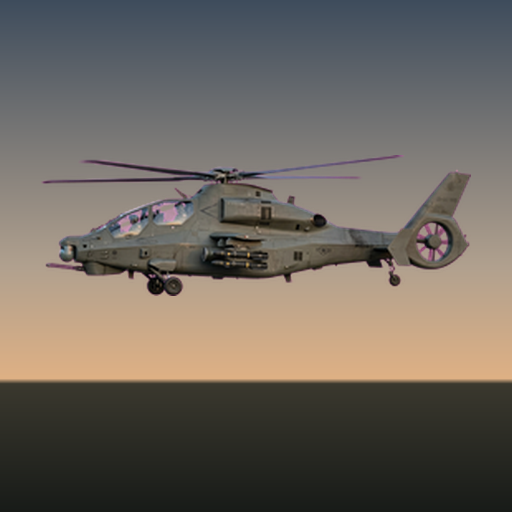
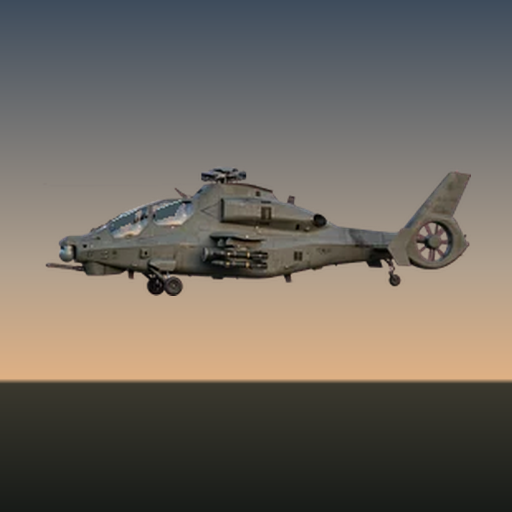
Clean battlefield sprites and give each faction distinct paint

diff --git a/index.html b/index.html
@@ -73,7 +73,7 @@ const SPR={},UNIT_SPR={ENG:'soldier',INF:'soldier',TANK:'tank',AA:'aa',VAN:'van'
 const UNIT_SCALE={ENG:1.4,INF:1.4,TANK:1.15,AA:1.15,VAN:1.15},TEAM_RIM={1:'#8fe8d2','-1':'#ff7a66'};
 const SPR_CFG={
   heli:{w:130,face:-1},tank:{w:95,face:1},aa:{w:110,face:-1},van:{w:100,face:1},
-  soldier:{w:30,face:1},balloon:{w:120,face:1},bunker:{w:110,face:1},hq:{w:300,face:1,file:'hq.webp'}
+  soldier:{w:30,face:1},balloon:{w:120,face:1},bunker:{w:110,face:1},hq:{w:300,face:1}
 };
 let ASSETS_OK=false,ASSET_FAIL=[],ASSET_GOT=0,ASSET_NEED=0;
 (function loadAssets(){
@@ -83,21 +83,29 @@ let ASSETS_OK=false,ASSET_FAIL=[],ASSET_GOT=0,ASSET_NEED=0;
     img.onload=done;img.onerror=()=>{ASSET_FAIL.push(name);done();};
     img.src='assets/'+file;return img;
   };
-  for(const n in SPR_CFG)SPR[n]={img:load(n,SPR_CFG[n].file||n+'.png')};
+  for(const n in SPR_CFG)SPR[n]={img:load(n,n+'.webp')};
   SPR.backdrop=load('backdrop','backdrop.jpg');
 })();
 function sprImg(name){
   const s=SPR[name];
   return s&&s.img&&s.img.complete&&s.img.naturalWidth>0?s.img:null;
 }
-// Enemy red wash, team desaturation, hit flash and wreck char are computed per pixel from the one base
+// Faction paint, team desaturation, hit flash and wreck char are computed per pixel from the one base
 // image and cached, so sprites need no pre-tinted copies and nothing depends on canvas filter support.
-function shadePixels(d,side,effect){
-  const sat=side<0?.62:.78,gain=(side<0?.92:.98)*(effect==='hit'?2.4:1);
+function shadePixels(d,side,effect,width=1){
+  const sat=.83,gain=effect==='hit'?2.4:1;
   for(let i=0;i<d.length;i+=4){
     if(!d[i+3])continue;
     let r=d[i],g=d[i+1],b=d[i+2];
-    if(side<0){r=Math.min(255,r*1.3+15);g*=.55;b*=.55;}
+    const y=Math.floor(i/4/width),x=i/4%width;
+    const stripe=(x+y*.48)/width;
+    const marking=(stripe>.42&&stripe<.49)||(stripe>.505&&stripe<.528);
+    if(side<0){
+      const value=.27*r+.58*g+.15*b;
+      if(marking || (b>r*1.4&&b>g*1.15)){
+        r=value*.86+92;g=value*.36;b=value*.29;
+      }else{r=value*.77;g=value*.84;b=value*.91;}
+    }else if(marking){r*=.64;g=g*.86+12;b=b*.92+32;}
     const gray=.2126*r+.7152*g+.0722*b;
     if(effect==='wreck')r=g=b=gray*.35;
     else{r=(gray+(r-gray)*sat)*gain;g=(gray+(g-gray)*sat)*gain;b=(gray+(b-gray)*sat)*gain;}
@@ -113,11 +121,11 @@ function materialSprite(img,name,side,w,effect='',rim=''){
   const sw=Math.min(img.width,Math.ceil(w*3)),sh=Math.max(1,Math.round(sw*img.height/img.width));
   const body=document.createElement('canvas');body.width=sw;body.height=sh;
   const ctx=body.getContext('2d');ctx.drawImage(img,0,0,sw,sh);
-  try{const pixels=ctx.getImageData(0,0,sw,sh);shadePixels(pixels.data,side,effect);ctx.putImageData(pixels,0,0);}
+  try{const pixels=ctx.getImageData(0,0,sw,sh);shadePixels(pixels.data,side,effect,sw);ctx.putImageData(pixels,0,0);}
   catch(e){
     // Pixel access is refused when the page is opened straight from disk; approximate with compositing.
     ctx.globalCompositeOperation='source-atop';
-    for(const [on,tint] of [[side<0,'rgba(190,40,30,.42)'],[effect==='hit','rgba(255,255,255,.6)'],[effect==='wreck','rgba(18,18,16,.72)']])
+    for(const [on,tint] of [[side<0,'rgba(66,75,85,.34)'],[effect==='hit','rgba(255,255,255,.6)'],[effect==='wreck','rgba(18,18,16,.72)']])
       if(on){ctx.fillStyle=tint;ctx.fillRect(0,0,sw,sh);}
   }
   let surface=body,pad=0;

diff --git a/assets/process.py b/assets/process.py
@@ -1,10 +1,9 @@
 #!/usr/bin/env python3
-"""Chroma-key magenta backgrounds -> clean transparent game sprites.
-
-Enemy red tint, hit flash and wreck shading are computed in the browser from these base images
-(shadePixels in index.html), so no tinted copies are written. The large HQ sprite ships as WebP.
+"""Run python3 assets/process.py with Pillow to rebuild sprites, backdrop and icons.
+src_ files are authoring masters. The runtime downloads the eight WebP sprites
+and backdrop.jpg. Team paint, hit flashes and wreck shading use these same sprites.
 """
-from PIL import Image
+from PIL import Image, ImageDraw
 import os
 
 os.chdir(os.path.dirname(os.path.abspath(__file__)))
@@ -20,49 +19,52 @@ SPRITES = {
     'bunker':  ('src_bunker.png',  220),
     'hq':      ('src_hq.png',      600),
 }
-WEBP = {'hq'}
 
 def key_and_crop(src_file):
     im = Image.open(src_file).convert('RGBA')
-    w, h = im.size
+    if src_file == 'src_van.png':
+        return im.crop(im.getbbox())
     px = im.load()
-
-    # Sample background magenta from image corners
-    corners = [px[0, 0], px[w - 1, 0], px[0, h - 1], px[w - 1, h - 1]]
-    bg_m = min(min(p[0], p[2]) - p[1] for p in corners)
-    cut_hi = min(80, max(50, bg_m - 15))
-    cut_lo = cut_hi - 30
-
-    for y in range(h):
-        for x in range(w):
+    for y in range(im.height):
+        for x in range(im.width):
             r, g, b, a = px[x, y]
-            m = min(r, b) - g
-            if m >= cut_hi:
+            spill = min(r, b) - g
+            if spill >= 80:
                 px[x, y] = (0, 0, 0, 0)
-            elif m > cut_lo:
-                na = int(255 * (1 - (m - cut_lo) / (cut_hi - cut_lo)))
-                ng = max(g, (r + b) // 2 - m)
-                px[x, y] = (r, ng, b, na)
-            elif m > 10:
-                ng = max(g, (r + b) // 2 - int(m * 1.3))
-                px[x, y] = (r, ng, b, a)
+            elif spill > 0:
+                # Neutralize the key colour even on partially covered edge pixels.
+                coverage = min(1, (80 - spill) / 30)
+                px[x, y] = (r - spill, g, b - spill, round(a * coverage))
+    return im.crop(im.getbbox())
 
-    # Tight autocrop to actual object pixels
-    bbox = im.getchannel('A').getbbox()
-    if bbox:
-        im = im.crop(bbox)
-    return im
+
+def finish_details(im, name):
+    # Coordinates refer to the fixed export sizes in SPRITES. Keep the heli
+    # canvas extent so the animated rotor mast has a stable registration point.
+    draw = ImageDraw.Draw(im)
+    if name == 'heli':
+        for box in [(0, 0, 96, 16), (124, 0, 224, 16), (0, 0, 224, 4)]:
+            draw.rectangle(box, fill=(0, 0, 0, 0))
+        # Cool reflections in the two inset canopy panes.
+        for pane in [[(43,39),(57,33),(55,40),(45,44)], [(70,32),(84,27),(80,36),(69,39)]]:
+            draw.polygon(pane, fill=(55,75,82,232))
+            draw.line(pane[:2], fill=(133,157,157,245))
+    elif name == 'aa':
+        for pane in [[(28,60),(38,59),(37,67),(26,69)], [(59,59),(69,58),(66,65),(57,67)]]:
+            draw.polygon(pane, fill=(60,78,83,235))
+    elif name == 'hq':
+        for x in (76, 502):
+            draw.rectangle((x, 22, x+19, 27), fill=(0,0,0,0))
+
 
 def sprites():
     for name, (src, tw) in SPRITES.items():
         im = key_and_crop(src)
         th = max(1, round(im.height * tw / im.width))
-        im = im.resize((tw, th), Image.LANCZOS)
-        if name in WEBP:
-            im.save(f'{name}.webp', quality=90, method=6)
-        else:
-            im.save(f'{name}.png', optimize=True)
-        print(f'{name} {im.size} (alpha bbox: {im.getchannel("A").getbbox()})')
+        im = im.resize((tw, th), Image.Resampling.LANCZOS)
+        finish_details(im, name)
+        im.save(f'{name}.webp', quality=89, method=6)
+        print(f'{name}.webp {im.size}')
 
     # backdrop: downscale + slight darken for mood
     bd = Image.open('src_backdrop.png').convert('RGB')
@@ -73,7 +75,7 @@ def sprites():
 
 def icons():
     """App icons for the web manifest: the helicopter over the dusk sky used in the game."""
-    heli = Image.open('heli.png').convert('RGBA')
+    heli = Image.open('heli.webp').convert('RGBA')
     sky = [(0.0, (62, 76, 92)), (0.52, (176, 160, 142)), (0.74, (222, 176, 132)), (0.75, (58, 56, 46)), (1.0, (24, 27, 24))]
 
     def colour(t):
